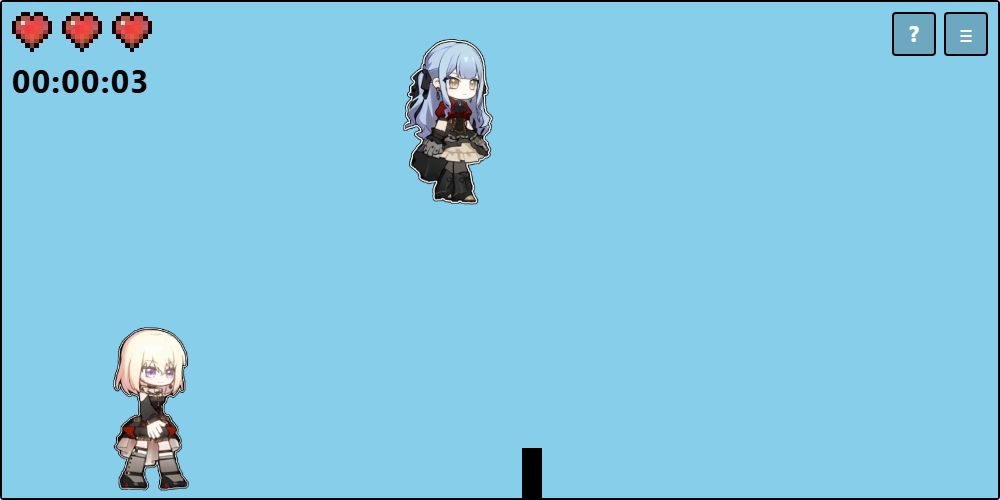
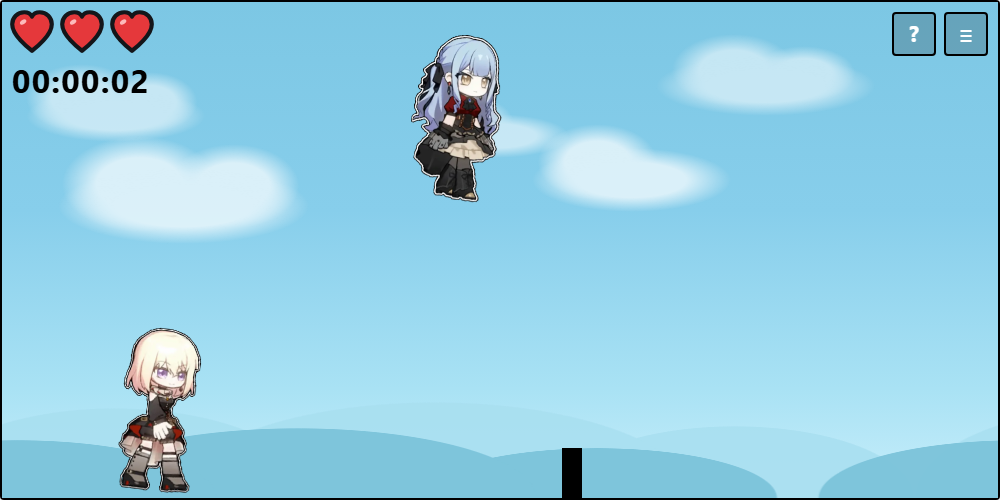
feat 背景云增加

diff --git a/src/styles/game.css b/src/styles/game.css
@@ -19,7 +19,7 @@
   width: 1000px;
   height: 500px;
   overflow: hidden;
-  background: #87ceeb;
+  background: linear-gradient(180deg, #7cc7e4 0%, #87ceeb 42%, #a9e2f4 78%, #c8eefb 100%);
   border: 2px solid #000;
   transform-origin: top left;
   cursor: pointer;
@@ -27,9 +27,97 @@
   touch-action: manipulation;
 }
 
-.stage--frozen .sprite {
+.stage--frozen .sprite,
+.stage--frozen .backdrop__layer {
   animation-play-state: paused;
 }
+
+/* ---------- 视差背景 ---------- */
+
+.backdrop {
+  position: absolute;
+  inset: 0;
+  z-index: 1;
+  overflow: hidden;
+  pointer-events: none;
+}
+
+/* 每层宽度是舞台的两倍，向左平移一个贴图宽度即可无缝循环 */
+.backdrop__layer {
+  position: absolute;
+  left: 0;
+  width: 2000px;
+  background-repeat: repeat-x;
+  background-size: 1000px 100%;
+  animation: backdrop-scroll var(--scroll-duration, 40s) linear infinite;
+  will-change: transform;
+}
+
+/* 远处的云：大而淡，移动最慢 */
+.backdrop__clouds-far {
+  top: 22px;
+  height: 150px;
+  --scroll-duration: 50s;
+  opacity: 0.55;
+  background-image:
+    radial-gradient(90px 26px at 180px 92px, #fff 55%, transparent 100%),
+    radial-gradient(56px 34px at 146px 74px, #fff 55%, transparent 100%),
+    radial-gradient(48px 30px at 214px 78px, #fff 55%, transparent 100%),
+    radial-gradient(74px 22px at 560px 112px, #fff 55%, transparent 100%),
+    radial-gradient(46px 26px at 532px 98px, #fff 55%, transparent 100%),
+    radial-gradient(110px 30px at 830px 62px, #fff 55%, transparent 100%),
+    radial-gradient(62px 36px at 798px 46px, #fff 55%, transparent 100%),
+    radial-gradient(52px 28px at 868px 50px, #fff 55%, transparent 100%);
+}
+
+/* 近处的云：更大更实，速度约为远云的 1.9 倍 */
+.backdrop__clouds-near {
+  top: 104px;
+  height: 176px;
+  --scroll-duration: 28s;
+  opacity: 0.7;
+  background-image:
+    radial-gradient(126px 38px at 300px 100px, #fff 55%, transparent 100%),
+    radial-gradient(78px 48px at 256px 78px, #fff 55%, transparent 100%),
+    radial-gradient(66px 42px at 350px 80px, #fff 55%, transparent 100%),
+    radial-gradient(100px 32px at 748px 74px, #fff 55%, transparent 100%),
+    radial-gradient(60px 38px at 714px 56px, #fff 55%, transparent 100%);
+}
+
+/* 远山：低对比度的浅蓝剪影，压扁成低矮的地平线 */
+.backdrop__hills-far {
+  bottom: 0;
+  height: 120px;
+  --scroll-duration: 38s;
+  opacity: 0.9;
+  background-image:
+    radial-gradient(200px 90px at 200px 120px, #a9dff0 99%, transparent 100%),
+    radial-gradient(260px 96px at 520px 120px, #a9dff0 99%, transparent 100%),
+    radial-gradient(180px 72px at 820px 120px, #a9dff0 99%, transparent 100%);
+}
+
+/* 近山：颜色更深、起伏更矮，速度最快，用来锚定“在向前跑” */
+.backdrop__hills-near {
+  bottom: 0;
+  height: 90px;
+  --scroll-duration: 18s;
+  opacity: 0.95;
+  background-image:
+    radial-gradient(200px 58px at 200px 90px, #7cc3da 99%, transparent 100%),
+    radial-gradient(240px 70px at 480px 90px, #7cc3da 99%, transparent 100%),
+    radial-gradient(180px 50px at 780px 90px, #7cc3da 99%, transparent 100%);
+}
+
+@keyframes backdrop-scroll {
+  from {
+    transform: translate3d(0, 0, 0);
+  }
+
+  to {
+    transform: translate3d(-1000px, 0, 0);
+  }
+}
+
 
 /* ---------- 角色与障碍物 ---------- */
 
@@ -87,16 +175,6 @@
   color: #000;
   letter-spacing: 0.04em;
   font-variant-numeric: tabular-nums;
-}
-
-.heart {
-  display: block;
-  background: url('../assets/heart.webp') center / contain no-repeat;
-  image-rendering: pixelated;
-}
-
-.heart--empty {
-  background-image: url('../assets/empty-heart.webp');
 }
 
 /* ---------- 右上角按钮 ---------- */
@@ -292,3 +370,11 @@
     opacity: 1;
   }
 }
+
+/*
+ * 注意：这里刻意不按 prefers-reduced-motion: reduce 关闭角色摇摆和背景滚动。
+ * 部分系统（例如关闭了 Windows「动画效果」）会默认上报 reduce，一旦在 CSS 里
+ * 停掉动画，游戏看起来会完全静止——这正是祥子“关键帧动画失效”的原因。
+ * 若将来需要无障碍支持，请提供游戏内开关，而不是直接停掉核心动效。
+ */
+

diff --git a/src/components/HeartIcon.vue b/src/components/HeartIcon.vue
@@ -1,0 +1,57 @@
+<script setup lang="ts">
+const props = withDefaults(
+  defineProps<{
+    /** true = 满心，false = 空心槽 */
+    filled?: boolean
+  }>(),
+  { filled: true },
+)
+</script>
+
+<template>
+  <svg
+    class="heart-icon"
+    :class="{ 'heart-icon--empty': !props.filled }"
+    viewBox="0 0 48 48"
+    aria-hidden="true"
+    focusable="false"
+  >
+    <path
+      class="heart-icon__shape"
+      d="M24 42C20 39 5 27 5 16.5C5 10 10 5 16.6 5C20 5 22.7 6.7 24 9.2C25.3 6.7 28 5 31.4 5C38 5 43 10 43 16.5C43 27 28 39 24 42Z"
+    />
+    <ellipse
+      v-if="props.filled"
+      class="heart-icon__glint"
+      cx="15.5"
+      cy="14.4"
+      rx="3.4"
+      ry="2.1"
+      transform="rotate(-35 15.5 14.4)"
+    />
+  </svg>
+</template>
+
+<style scoped>
+.heart-icon {
+  display: block;
+  overflow: visible;
+}
+
+.heart-icon__shape {
+  fill: #e5383b;
+  stroke: #14161a;
+  stroke-width: 4;
+  stroke-linejoin: round;
+  stroke-linecap: round;
+}
+
+.heart-icon--empty .heart-icon__shape {
+  fill: none;
+}
+
+.heart-icon__glint {
+  fill: #ffc9c9;
+  opacity: 0.9;
+}
+</style>

diff --git a/src/components/GameHud.vue b/src/components/GameHud.vue
@@ -1,4 +1,5 @@
 <script setup lang="ts">
+import HeartIcon from '@/components/HeartIcon.vue'
 import { HEART_SIZE, MAX_HEARTS } from '@/game/constants'
 
 const props = defineProps<{
@@ -13,13 +14,11 @@ const heartStyle = { width: `${HEART_SIZE}px`, height: `${HEART_SIZE}px` }
 <template>
   <div class="hud">
     <div class="hud__hearts" role="img" :aria-label="`剩余生命 ${props.hearts} / ${MAX_HEARTS}`">
-      <span
+      <HeartIcon
         v-for="slot in heartSlots"
         :key="slot"
-        class="heart"
-        :class="{ 'heart--empty': slot >= props.hearts }"
+        :filled="slot < props.hearts"
         :style="heartStyle"
-        aria-hidden="true"
       />
     </div>
     <div class="hud__clock" aria-live="off">{{ props.time }}</div>

diff --git a/src/components/GameStage.vue b/src/components/GameStage.vue
@@ -3,6 +3,7 @@ import { computed, onBeforeUnmount, onMounted, ref } from 'vue'
 
 import GameHud from '@/components/GameHud.vue'
 import GameOverlay from '@/components/GameOverlay.vue'
+import StageBackdrop from '@/components/StageBackdrop.vue'
 import TestMenu from '@/components/TestMenu.vue'
 import { useSakiRun } from '@/composables/useSakiRun'
 import type { BlockState } from '@/game/blocks'
@@ -98,6 +99,8 @@ function debugSpriteStyle(kind: DebugSpriteKind, index: number): Record<string, 
       :style="{ transform: `scale(${scale})` }"
       @pointerdown="handlePointerDown"
     >
+      <StageBackdrop />
+
       <!-- 调试菜单创建的角色不参与游戏逻辑 -->
       <div
         v-for="(sprite, index) in state.debugSprites"

diff --git a/src/components/StageBackdrop.vue b/src/components/StageBackdrop.vue
@@ -1,0 +1,9 @@
+<template>
+  <!-- 纯装饰层：四层视差背景，越靠前滚动越快，营造向后退去的速度感 -->
+  <div class="backdrop" aria-hidden="true">
+    <div class="backdrop__layer backdrop__hills-far" />
+    <div class="backdrop__layer backdrop__hills-near" />
+    <div class="backdrop__layer backdrop__clouds-far" />
+    <div class="backdrop__layer backdrop__clouds-near" />
+  </div>
+</template>

diff --git a/README.md b/README.md
@@ -46,7 +46,9 @@ sakiRUN/
    ├─ App.vue                # 页面骨架 + 操作提示
    ├─ components/
    │  ├─ GameStage.vue       # 舞台：渲染角色 / 障碍物 / HUD / 遮罩，处理缩放
-   │  ├─ GameHud.vue         # 心形生命值 + 计时器
+   │  ├─ StageBackdrop.vue   # 视差背景：云层与山丘分层滚动
+   │  ├─ GameHud.vue         # 生命值 + 计时器
+   │  ├─ HeartIcon.vue       # 矢量心形（内联 SVG，满心 / 空心槽）
    │  ├─ GameOverlay.vue     # 开始 / 暂停 / 结束面板
    │  └─ TestMenu.vue        # 调试菜单
    ├─ composables/
@@ -63,7 +65,7 @@ sakiRUN/
    ├─ styles/
    │  ├─ base.css            # 页面骨架
    │  └─ game.css            # 舞台、实体、HUD、按钮、动画
-   └─ assets/                # 角色 / 心形图片（import 后由 Vite 处理）
+   └─ assets/                # 角色图片（import 后由 Vite 处理）
 ```
 
 ## 设计说明
@@ -72,8 +74,12 @@ sakiRUN/
   暂停就是停止循环，因此跳跃、障碍物、计时会同时冻结。
 - **逻辑坐标固定**：舞台内部始终按 1000 × 500 布局，外层按容器宽度整体
   `transform: scale()`，所以移动端不需要再写一套尺寸，也不会出现越界。
+- **视差背景**：`StageBackdrop` 用 4 层可无缝平铺的天空贴图（远云、近云、远山、近山）
+  以不同速度向左循环滚动，越靠前越快，形成向后退去的速度感；暂停或结束时随游戏一起冻结。
 - **规则与渲染分离**：`src/game/*` 是不依赖 Vue 的纯函数，组件只消费状态；
   跳跃曲线、碰撞、生成节奏都可以单独测试。
+- **矢量 HUD**：生命值用内联 SVG 心形（`HeartIcon`）绘制，满心为红色填充 + 黑色描边，
+  空心槽只留描边；不依赖位图，随舞台缩放与高 DPI 屏幕都保持清晰。
 - **资源交给 Vite**：图片放在 `src/assets` 并通过 CSS `url()` 引入，
   构建时会带哈希输出，不再依赖 `public/` 的运行时路径。
 
